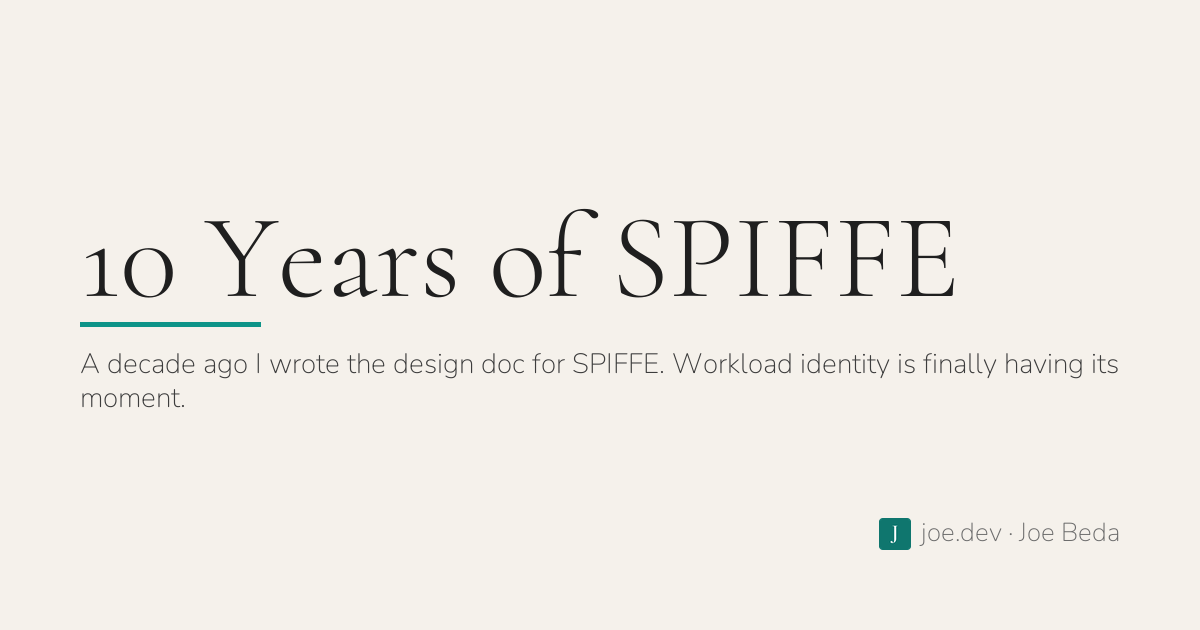
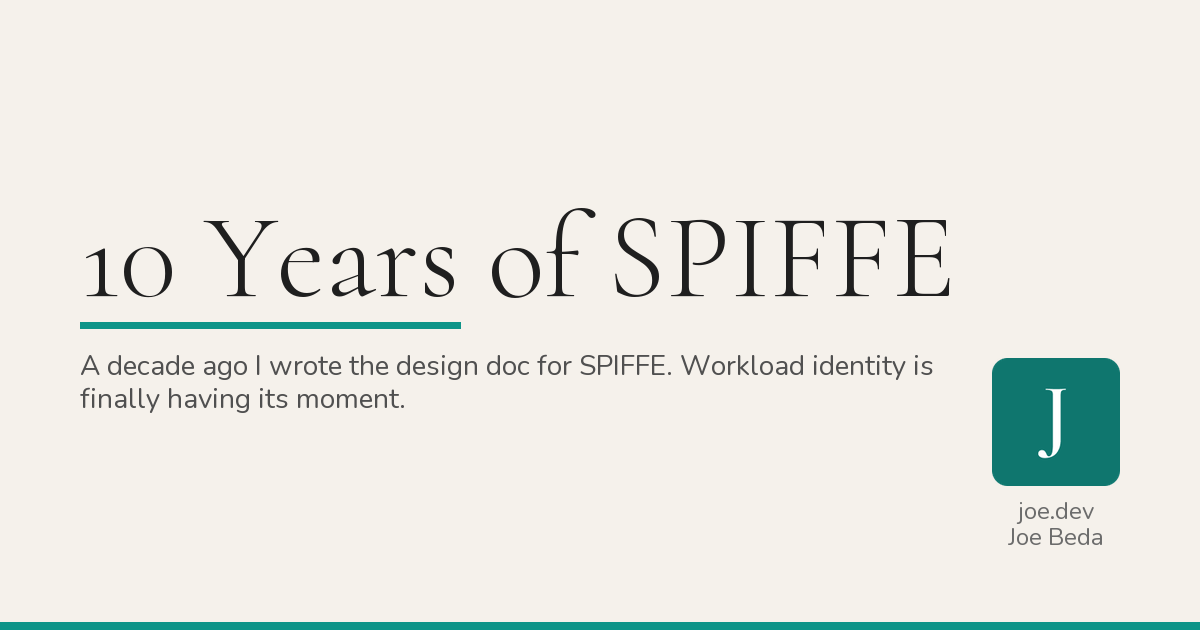
feat: redesign cover images and modernise Python tooling
Cover images (SPEC_VERSION 4 → 5): larger 128px stacked signature
block replacing the old 32px inline wordmark; teal rule widened to
380×6px; description text upgraded to Nunito Regular 400 at #505050;
8px bottom teal stripe added; description max-width constrained to
880px to prevent overlap with the signature block.

og-home image updated to match: rule now 280×6px, bottom stripe added,
"Joe Beda" name added below the rule in Nunito Regular 28px.

Python tooling: uv + Python 3.13 venv isolated under scripts/.venv/;
dependencies declared in scripts/requirements.txt (Pillow, fonttools);
task fonts now generates static Nunito weight instances (Light/Regular/
SemiBold) via fonttools instancer since Pillow cannot select variable
font axes (variable font defaults to wght=200, not 300).

CLAUDE.md, colophon, and .gitignore updated to reflect all changes.

diff --git a/scripts/generate-cover.py b/scripts/generate-cover.py
@@ -40,7 +40,7 @@ BG             = "#F5F1EB"
 TEAL           = "#0D9488"
 TEXT_PRIMARY   = "#1F1F1F"
 TEXT_SECONDARY = "#6C6C6C"
-TEXT_DESC      = "#3D3D3D"
+TEXT_DESC      = "#505050"
 
 FONT_DIR    = Path("fonts")
 
@@ -49,7 +49,7 @@ FONT_DIR    = Path("fonts")
 TITLE_SIZES = [120, 96, 72, 60, 52]
 
 # Bump this when the visual design changes so old sidecars can be detected.
-SPEC_VERSION = "4"
+SPEC_VERSION = "5"
 
 
 def load_font(name: str, size: int) -> "ImageFont.FreeTypeFont":
@@ -89,10 +89,13 @@ def generate_cover(
     img  = Image.new("RGB", (W, H), BG)
     draw = ImageDraw.Draw(img)
 
-    wordmark_font     = load_font("Nunito-variable.ttf", 26)
-    description_font  = load_font("Nunito-variable.ttf", 28)
+    wordmark_font     = load_font("Nunito-Regular.ttf", 24)
+    description_font  = load_font("Nunito-Regular.ttf", 28)
 
-    max_w = W - PAD_X * 2
+    max_w      = W - PAD_X * 2
+    # Description must not run into the 128px signature block (icon_x = W-PAD_X-128 = 992).
+    # Leave a 32px gap → right edge at 960, so max desc width = 960 - PAD_X = 880.
+    max_w_desc = 880
 
     # Pick the largest title size that wraps to ≤3 lines
     title_font = None
@@ -112,14 +115,14 @@ def generate_cover(
     desc_lh = 0
     desc_gap = 8
     if description:
-        desc_lines = wrap_text(draw, description, description_font, max_w)
+        desc_lines = wrap_text(draw, description, description_font, max_w_desc)
         desc_lh = measure_lh(draw, description_font)
 
     desc_block_h = len(desc_lines) * desc_lh + (len(desc_lines) - 1) * desc_gap if desc_lines else 0
 
     # Teal rule height
     rule_gap  = 28
-    rule_h    = 4
+    rule_h    = 6
     desc_top_gap = 18  # space between rule and description
 
     total_h = (
@@ -139,7 +142,7 @@ def generate_cover(
 
     # Teal rule
     rule_y = y + rule_gap
-    draw.rectangle([(PAD_X, rule_y), (PAD_X + 180, rule_y + rule_h)], fill=TEAL)
+    draw.rectangle([(PAD_X, rule_y), (PAD_X + 380, rule_y + rule_h)], fill=TEAL)
     y = rule_y + rule_h
 
     # Description
@@ -149,37 +152,32 @@ def generate_cover(
             draw.text((PAD_X, y), line, font=description_font, fill=TEXT_DESC)
             y += desc_lh + desc_gap
 
-    # wordmark — bottom-right: favicon icon + text
-    wordmark = "joe.dev · Joe Beda"
-    wm_w = int(draw.textlength(wordmark, font=wordmark_font))
-    _, t, _, b = draw.textbbox((0, 0), wordmark, font=wordmark_font)
+    # Bottom teal stripe
+    draw.rectangle([(0, H - 8), (W, H)], fill=TEAL)
 
-    ICON_SIZE = 32
-    ICON_GAP  = 10
+    # Signature block — bottom-right: 128px icon, "joe.dev" / "Joe Beda" stacked below.
+    # Shifted up 8px so the text clears the bottom stripe.
+    ICON_SIZE = 128
+    ICON_GAP  = 8
+    LINE_GAP  = 4
     favicon_path = Path("static/apple-touch-icon.png")
-    use_icon = favicon_path.exists()
 
-    total_w = (ICON_SIZE + ICON_GAP if use_icon else 0) + wm_w
+    line_h        = measure_lh(draw, wordmark_font)
+    total_block_h = ICON_SIZE + ICON_GAP + line_h + LINE_GAP + line_h
+    block_y       = H - PAD_Y - total_block_h - 8
+    icon_x        = W - PAD_X - ICON_SIZE
 
-    if use_icon:
+    if favicon_path.exists():
         icon = Image.open(favicon_path).convert("RGBA")
         icon = icon.resize((ICON_SIZE, ICON_SIZE), Image.LANCZOS)
-        icon_x = W - PAD_X - total_w
-        icon_y = H - PAD_Y - ICON_SIZE
-        img.paste(icon, (icon_x, icon_y), icon)
-        text_x = icon_x + ICON_SIZE + ICON_GAP
-        # Align text visual center (accounts for font's bbox offset t) to icon center
-        text_y = (icon_y + ICON_SIZE // 2) - (t + b) // 2
-    else:
-        text_x = W - PAD_X - wm_w
-        text_y = H - PAD_Y - b
+        img.paste(icon, (icon_x, block_y), icon)
 
-    draw.text(
-        (text_x, text_y),
-        wordmark,
-        font=wordmark_font,
-        fill=TEXT_SECONDARY,
-    )
+    icon_cx = icon_x + ICON_SIZE // 2
+    ty = block_y + ICON_SIZE + ICON_GAP
+    for label in ["joe.dev", "Joe Beda"]:
+        lw = int(draw.textlength(label, font=wordmark_font))
+        draw.text((icon_cx - lw // 2, ty), label, font=wordmark_font, fill=TEXT_SECONDARY)
+        ty += line_h + LINE_GAP
 
     output.parent.mkdir(parents=True, exist_ok=True)
     img.save(output, "PNG", optimize=True)

diff --git a/scripts/generate-og-home.py b/scripts/generate-og-home.py
@@ -50,7 +50,7 @@ def main() -> None:
     title_h = tb - tt
 
     # Teal rule
-    rule_w, rule_h, rule_gap = 220, 4, 28
+    rule_w, rule_h, rule_gap = 280, 6, 28
 
     # Block layout: icon → gap → title → rule_gap → rule
     icon_title_gap = 28
@@ -71,6 +71,16 @@ def main() -> None:
     rule_x = (W - rule_w) // 2
     rule_y = y + rule_gap
     draw.rectangle([(rule_x, rule_y), (rule_x + rule_w, rule_y + rule_h)], fill=TEAL)
+
+    # Name — centred below rule, primary identity element at this scale
+    name_font = load_font("Nunito-Regular.ttf", 28)
+    name      = "Joe Beda"
+    name_w    = int(draw.textlength(name, font=name_font))
+    _, nt, _, nb = draw.textbbox((0, 0), name, font=name_font)
+    draw.text(((W - name_w) // 2, rule_y + rule_h + 20 - nt), name, font=name_font, fill="#6C6C6C")
+
+    # Bottom teal stripe — matches post cover family
+    draw.rectangle([(0, H - 8), (W, H)], fill=TEAL)
 
     output = Path("static/og-home.png")
     img.save(output, "PNG", optimize=True)

diff --git a/CLAUDE.md b/CLAUDE.md
@@ -195,17 +195,18 @@ Standard cover image: **1200×630 px** PNG (16:9 / OG dimensions; also the ATpro
 |---|---|
 | Background | `#F5F1EB` warm parchment |
 | Title | Cormorant variable, 120 px (auto-reduces through 96/72/60/52 until ≤3 lines), `#1F1F1F` |
-| Teal rule | `#0D9488`, 4 px × 180 px, 28 px below title block |
-| Description | Nunito variable, 28 px, `#3D3D3D`, 18 px below teal rule |
-| Wordmark | favicon (`static/apple-touch-icon.png`, 32 px) + `joe.dev · Joe Beda`, Nunito 26 px, `#6C6C6C`, bottom-right; icon optically centered on text (4 px margin-top offset for Cormorant metrics) |
+| Teal rule | `#0D9488`, 6 px × 380 px, 28 px below title block |
+| Description | Nunito Regular (400), 28 px, `#505050`, 18 px below teal rule; max width 880 px to clear signature block |
+| Bottom stripe | `#0D9488`, 8 px × full width, bottom edge |
+| Signature block | `static/apple-touch-icon.png` at 128 px, bottom-right; `joe.dev` / `Joe Beda` stacked below at Nunito Regular 24 px, `#6C6C6C`, centred on icon |
 | Padding | 80 px horizontal and vertical |
 
-Title block is vertically centered −30 px above true center.
+Title block is vertically centered −20 px above true center.
 
 #### Generating a cover
 
 ```bash
-# Requires: pip install Pillow  +  task fonts (run once)
+# Requires: task fonts (run once — sets up venv + downloads fonts)
 
 task cover POST=content/posts/my-post.md
 # → static/covers/my-post.png  +  static/covers/my-post.cover.json (sidecar)
@@ -332,14 +333,44 @@ Common tasks are defined in `Taskfile.yml` (requires [Task](https://taskfile.dev
 | `task build`       | Production build → `public/`                                            |
 | `task preview`     | Production build + serve locally on port 1313                           |
 | `task clean`       | Remove `public/`, `resources/_gen/`, build lock                         |
-| `task fonts`          | Download brand fonts into `fonts/` (gitignored)         |
+| `task scripts:setup`  | Create `scripts/.venv/` (Python 3.13) and install Pillow + fonttools |
+| `task fonts`          | Download brand fonts + generate static Nunito weight instances (runs `scripts:setup` automatically) |
 | `task cover POST=content/posts/foo.md` | Generate cover image for a post  |
 | `task covers-regen`   | Regenerate all covers from sidecars (after branding changes) |
 | `task atproto-check`  | List orphaned ATproto records (dry run)                  |
 | `task atproto-cleanup`| Delete orphaned ATproto records (prompts for confirmation)|
 | `task publication-icon` | Upload PNG as publication icon blob (default: `static/apple-touch-icon.png`) |
 
-Run `task fonts` once after cloning before any local image generation with ImageMagick.
+Run `task fonts` once after cloning before any local image generation. This also runs `task scripts:setup` automatically as a dependency.
+
+### Python Tooling
+
+All Python utilities live in `scripts/`. Dependencies are declared in `scripts/requirements.txt` and the venv is kept at `scripts/.venv/` (gitignored) — nothing Python-related lands at the repo root.
+
+**Why this layout:** The macOS system Python (`/usr/bin/python3`) is 3.9 and installs packages globally. We use **Python 3.13 via brew** and a project-local venv to keep things isolated and reproducible.
+
+**Setup** (runs automatically as a dep of `task fonts` and all script tasks):
+```bash
+task scripts:setup   # creates scripts/.venv/ and installs Pillow + fonttools
+```
+
+Or manually:
+```bash
+uv venv --python 3.13 scripts/.venv
+uv pip install --python scripts/.venv/bin/python3 -r scripts/requirements.txt
+```
+
+**Nunito static weight instances** — `Nunito-variable.ttf` defaults to `wght=200` (ExtraLight), and Pillow cannot select variable font axes at load time. `task fonts` uses `fonttools.varLib.instancer` to generate discrete weight files after download:
+
+| File | Weight |
+|---|---|
+| `fonts/Nunito-Light.ttf` | 300 |
+| `fonts/Nunito-Regular.ttf` | 400 |
+| `fonts/Nunito-SemiBold.ttf` | 600 |
+
+Scripts that need a specific weight load the discrete file (e.g. `load_font("Nunito-Regular.ttf", 28)`) rather than the variable font.
+
+**Adding a new Python dependency:** add it to `scripts/requirements.txt`, then run `task scripts:setup` to update the venv.
 
 ### Playwright MCP Server
 

diff --git a/content/colophon.md b/content/colophon.md
@@ -72,10 +72,11 @@ thumbnail in Bluesky's enhanced link cards.
 ![Example cover image](/covers/hello-world.png)
 
 The images are generated by a small Python script (`scripts/generate-cover.py`) using
-[Pillow](https://python-pillow.org) and the same brand fonts as the site. The layout is
-intentionally simple: the post title in Cormorant at the largest size that fits in three
-lines, a teal rule, an optional description in Nunito, and a `joe.dev · Joe Beda`
-wordmark at bottom right — all on the same warm parchment background as the site.
+[Pillow](https://python-pillow.org) and the same brand fonts as the site. The layout:
+post title in Cormorant at the largest size that fits in three lines, a teal rule, an
+optional description in Nunito, and a signature block — the site icon at 128 px with
+`joe.dev` / `Joe Beda` stacked below — anchored to the bottom-right corner, all on the
+same warm parchment background as the site.
 
 Each generated image is accompanied by a `.cover.json` sidecar that records the title,
 description, and spec version used to produce it. When the branding changes, running
